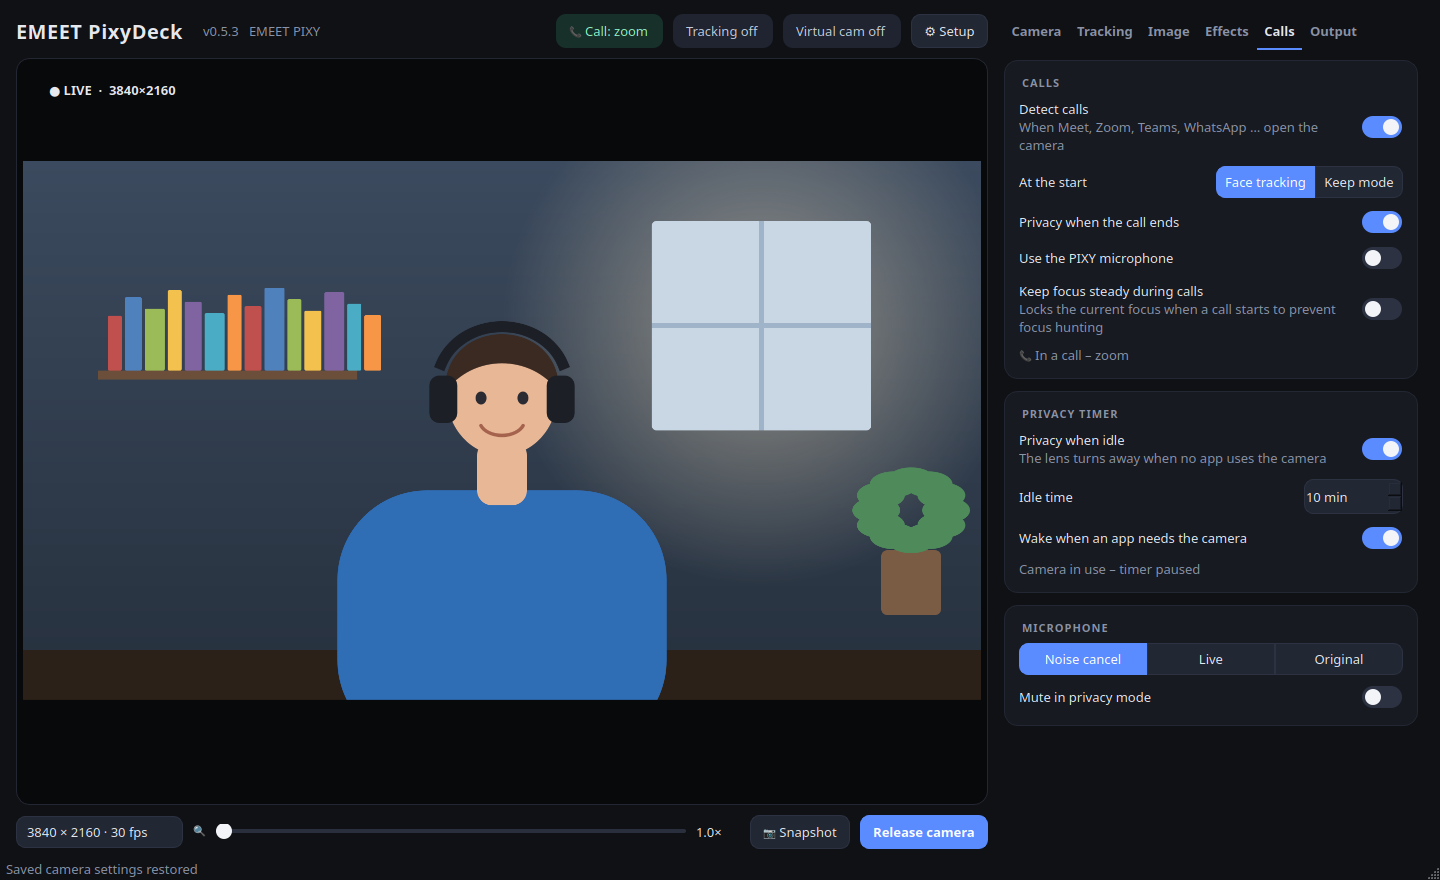
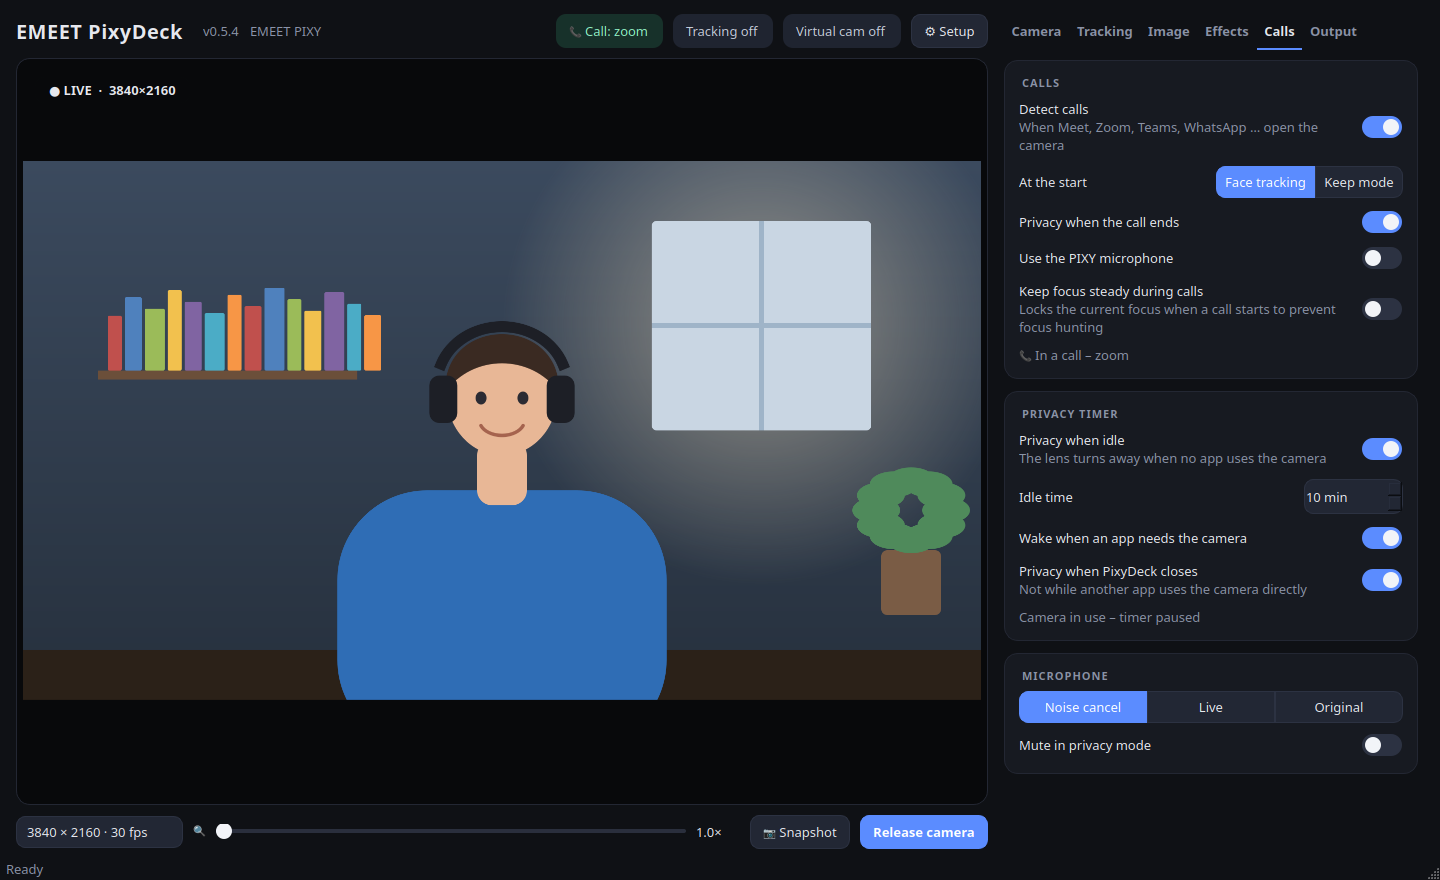
v0.5.4: privacy when PixyDeck closes; privacy tucks the lens in from the front

diff --git a/src/pixydeck/__init__.py b/src/pixydeck/__init__.py
@@ -8,4 +8,4 @@ VIRTUAL_CAMERA_NAME = "EMEET PIXY (PixyDeck)"
 # Earlier names, still recognised until the device is recreated.
 LEGACY_VIRTUAL_CAMERA_NAMES = ("PixyDeck Virtual Camera",)
 
-__version__ = "0.5.3"
+__version__ = "0.5.4"

diff --git a/CHANGELOG.md b/CHANGELOG.md
@@ -1,6 +1,6 @@
 # Changelog
 
-## Unreleased
+## 0.5.4 - 2026-10-23
 
 - **Privacy when PixyDeck closes** (Calls tab, on by default): closing PixyDeck turns the lens away – not while another app reads the real camera – and the next start resumes the previous mode
 - Privacy mode now faces the camera front first (pan 0°), so the lens tucks into the base like the privacy button instead of hanging beside it
